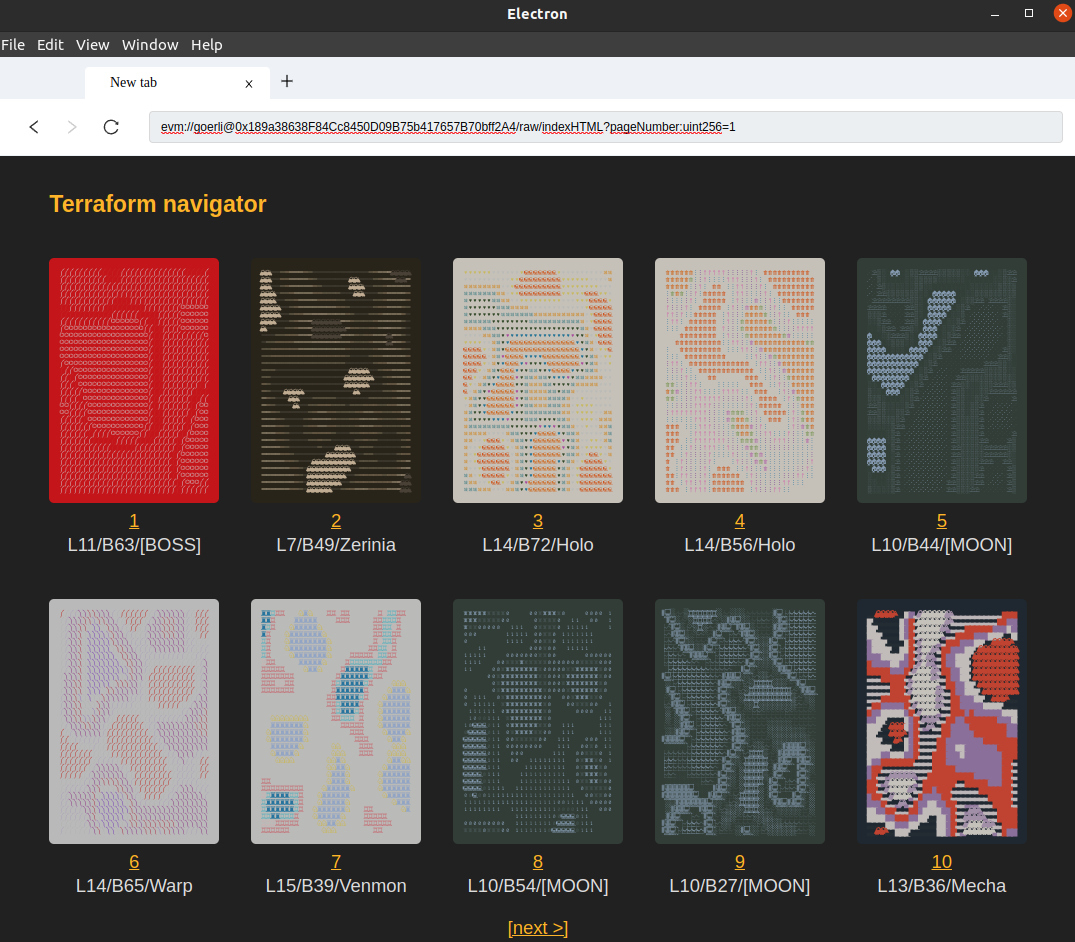
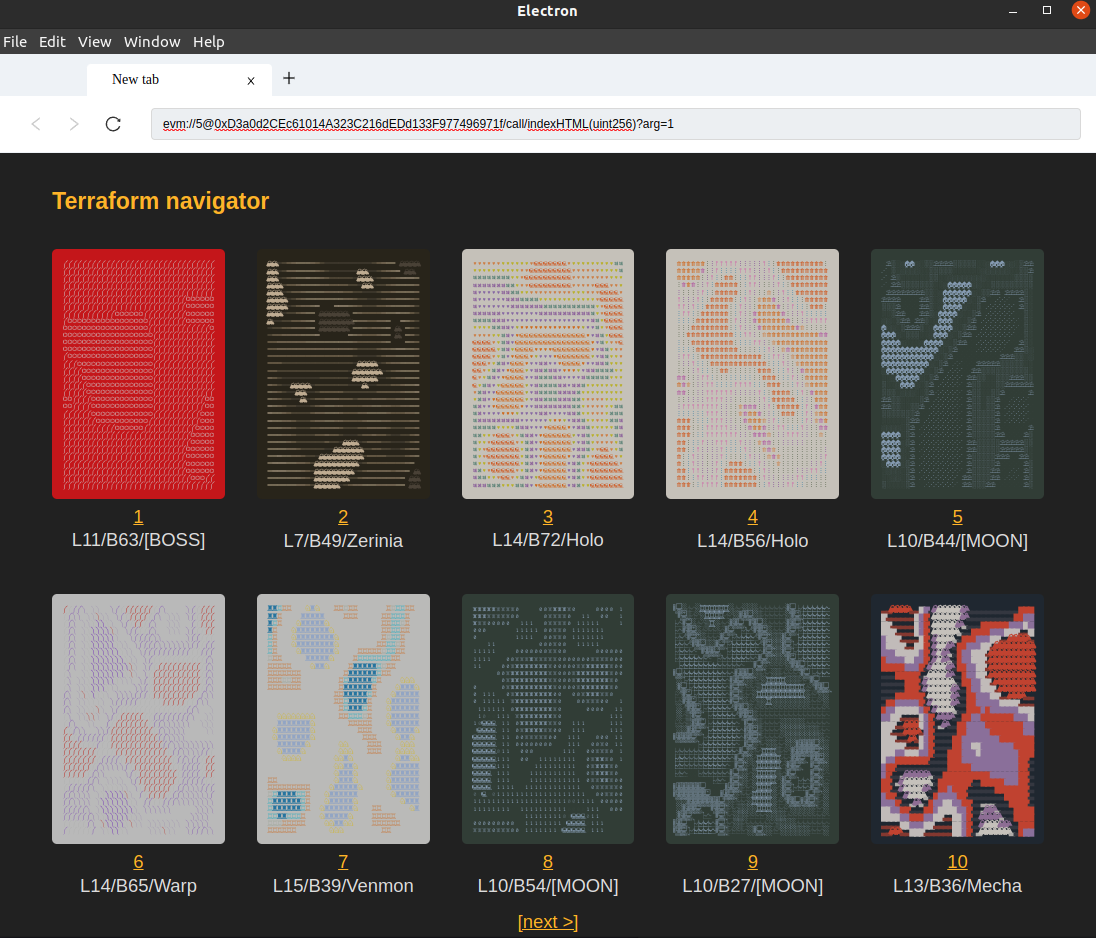
Updating default contract to updated one with the new URL format.

diff --git a/example/main.js b/example/main.js
@@ -51,7 +51,7 @@ function createWindow() {
   browser = new BrowserLikeWindow({
     controlHeight: 99,
     controlPanel: fileUrl(`${__dirname}/renderer/control.html`),
-    startPage: 'evm://5@0x189a38638F84Cc8450D09B75b417657B70bff2A4/call/indexHTML(uint256)?arg=1',
+    startPage: 'evm://5@0xD3a0d2CEc61014A323C216dEDd133F977496971f/call/indexHTML(uint256)?arg=1',
     blankTitle: 'New tab',
     debug: true, // will open controlPanel's devtools
     viewReferences: {
